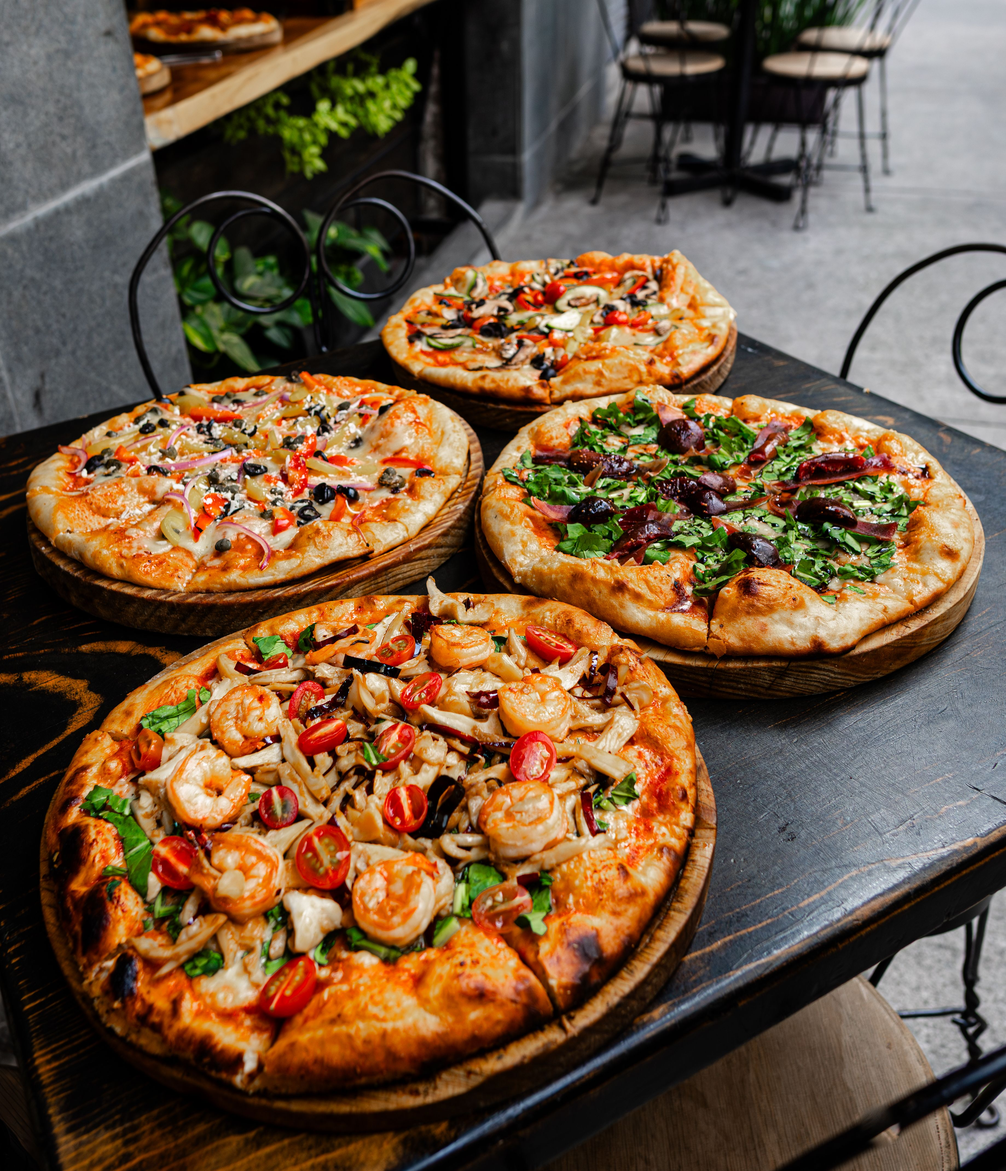
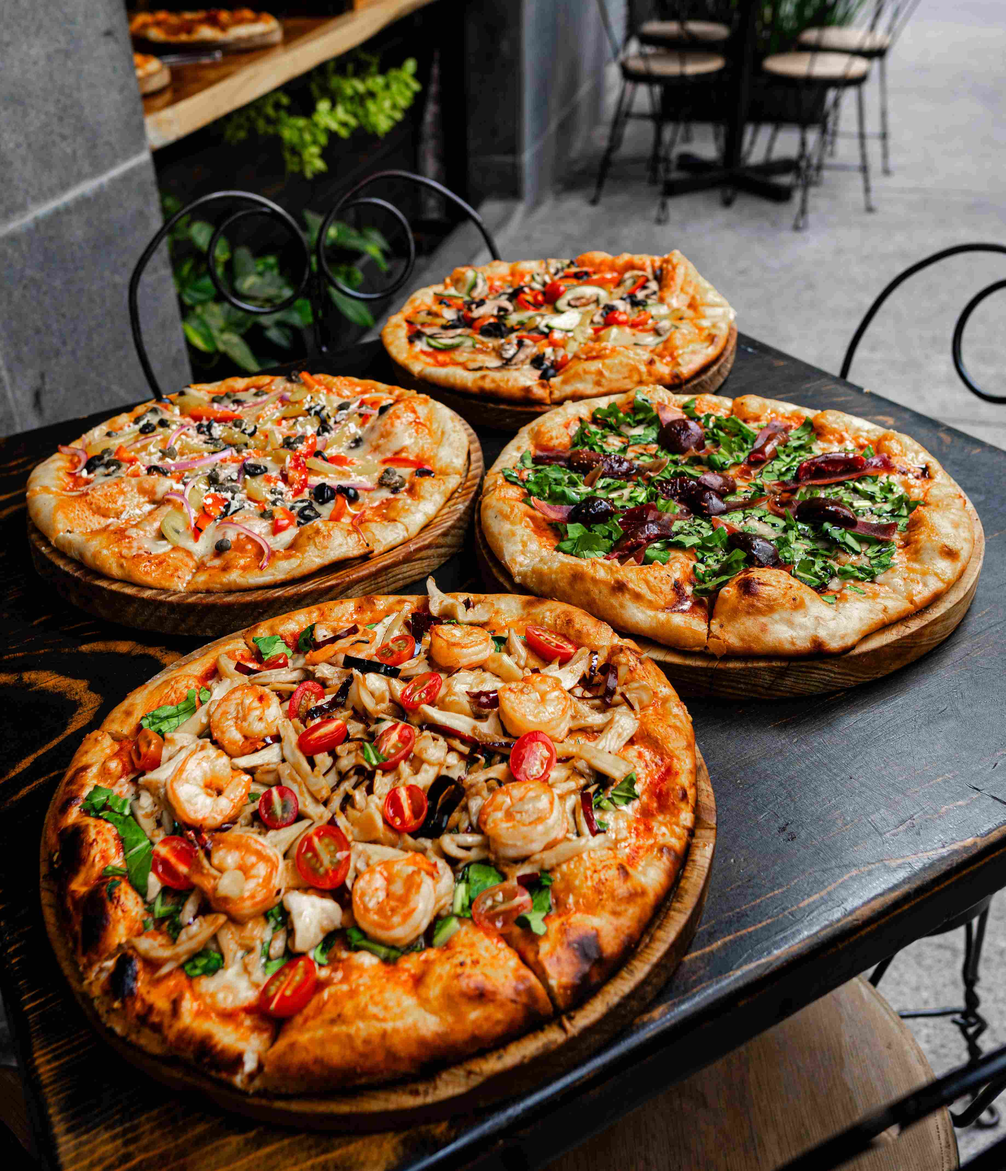
Compressed images.

diff --git a/index.html b/index.html
@@ -35,7 +35,7 @@
             <h2>Izpostavljene pizze</h2>
             <article>
                 <figure>
-                    <img src="slike/pizza-1-(transparent).png" alt="L'Antica Pirano" width="200">
+                    <img src="slike/pizza-1-(transparent).webp" alt="L'Antica Pirano" width="200">
                     <figcaption>Pica, ki združuje beneško eleganco mesta in lokalne morske zaklade.</figcaption>
                 </figure>
                 <h3>L'Antica Pirano</h3>
